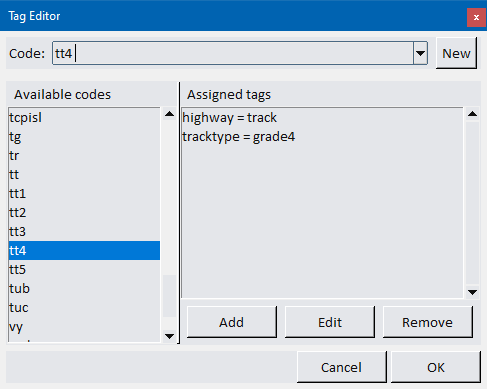
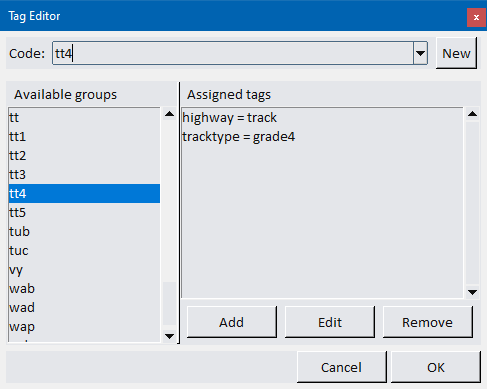
Implementing documentation

diff --git a/forms/main_form.py b/forms/main_form.py
@@ -1138,6 +1138,41 @@ class MainForm:
     def clear_input(self, event=None):
         self._reset_input()
 
+    def _show_generic_tags_warning(self):
+        from tkinter import messagebox
+
+        previous_topmost = None
+        try:
+            previous_topmost = bool(self.root.attributes("-topmost"))
+        except Exception:
+            previous_topmost = None
+
+        try:
+            self.root.deiconify()
+        except Exception:
+            pass
+
+        try:
+            self.root.attributes("-topmost", True)
+            self.root.lift()
+            self.root.update_idletasks()
+        except Exception:
+            pass
+
+        try:
+            messagebox.showwarning(
+                "Warning",
+                "Tags with generic values were added. "
+                "Please review the edited element manually before uploading.",
+                parent=self.root,
+            )
+        finally:
+            if previous_topmost is not None:
+                try:
+                    self.root.attributes("-topmost", previous_topmost)
+                except Exception:
+                    pass
+
     def send(self, code):
 
         self._sending_in_progress = True
@@ -1201,12 +1236,7 @@ class MainForm:
                     self._reset_input()
 
                     if generic_found:
-                        from tkinter import messagebox
-                        messagebox.showwarning(
-                            "Warning",
-                            "Tags with generic values were added. "
-                            "Please review the edited element manually before uploading."
-                        )
+                        self._show_generic_tags_warning()
 
                     self._sending_in_progress = False
                     self.allow_minimize = True

diff --git a/forms/tag_editor_form.py b/forms/tag_editor_form.py
@@ -282,7 +282,7 @@ class TagEditorForm(BaseForm):
         paned.pack(fill="both", expand=True, padx=6, pady=6)
 
         left_frame = tk.Frame(paned)
-        tk.Label(left_frame, text="Available codes").pack(anchor="w", padx=4)
+        tk.Label(left_frame, text="Available groups").pack(anchor="w", padx=4)
         list_container = tk.Frame(left_frame)
         list_container.pack(fill="both", expand=True)
         self.code_list = tk.Listbox(list_container)

diff --git a/forms/font_selector_form.py b/forms/font_selector_form.py
@@ -179,6 +179,7 @@ class FontSelectorForm(BaseForm):
         self.preview_label = tk.Label(
             self,
             text="The quick brown fox jumps over the lazy dog",
+            # text="Omnia Gallia divisa est in partes tres -- 0123456789",
             bg=self.panel_color,
             fg=self.panel_fg,
             relief="solid",

diff --git a/resources/doc/JOSM_Tagger.md b/resources/doc/JOSM_Tagger.md
@@ -81,15 +81,6 @@
 ### Important: Whatever the Operating system, JOSM must be open and at least one map element selected before using the "Apply" function.
 
 
-### Note
-> JOSM TAgger has two possible ways to send the tags to JOSM:
-> - ***User Interface Automation***: the program emulates user's clicks and keyboard commands in JOSM, e.g. by "pressing" *Ctrl-A* to recall the tag insertion form, *Tab* to switch among the form fields, *Enter* to confirm). 
->
->- ***Remote Control***: tags are sent to JOSM through *http* protocol. In order for this method to work, the *Remote Control* feature must be enabled in JOSM (`Edit >> Preferences >> Remote control >> Enable Remote Control` ): this will cause the Editor to listen for connections on standard TCP port 8111.
-
-Each method has its up and down sides: *GUI automation* doesn't need particular settings but is slower and requires that the user does not interact with the keyboard or mouse while the tags are being applied; on the other side, *Remote control* is faster but requires additional configuration and -in some cases- user permissions to work.
-
-
 ## Tag groups
 In JOSM Tagger, one or more OSM tags can be grouped under a short mnemonic code, which can be quickly recalled by typing its name.
 #### The *Code* text box
@@ -152,7 +143,7 @@ The list in the middle part of the window can be browsed to see which tags group
 | `pser` | `highway=service, access=private` | Add a private driveway |
 | `tuc` | `tunnel=culvert, layer=-1` | Mark a culvert |
 
-**Complete list**: All available codes are stored locally and can be browsed using the **Search** dialog (see below).
+**Complete list**: all available codes are stored locally and can be browsed using the **Search** dialog (see below).
 
 ---
 
@@ -189,6 +180,7 @@ Need to know which groups contain a particular tag? The ***Search*** function co
 	2. ***Edit***: Opens the *Tag Editor*, where it can be modified or deleted.
 
 
+---
 
 
 ## Creating and modifying Tag Groups
@@ -223,136 +215,96 @@ In the main window, select `Edit >> Tag groups`: this will bring the *Tag editor
    - Click the ***[ Add ]*** button to assign a new tag to the selected group
 
 
+
+#### Tags with "generic values"
+Sometimes it can be useful to add a tag with a generic value to an element on the map, to be modified later.
+
+In this case, a value such as `...`, or `###` (or any other string containing the same character repeated 3 times or more) can be assigned to that tag.
+
+> **Example**: Group *nn* will expand into the tags:
+> `addr:street=......`<br>
+> `addr:housenumber=......`
+
+Josm Tagger will detect the "generic" value when applying the tag group, and will display a warning message:
+
+<p align="center">
+  <img src="pub/generic_value_wrn.png" style="box-shadow: 0 0 10px rgba(0,0,0,0.5);">
+</p>
+
+> **IMPORTANT**: such generic tag values values MUST NOT be uploaded to the OpenStreetMap database! 
+>Please <u>use this function carefully</u> and always take some time to review your edits and the warnings thrown by JOSM at upload time.
+
+
 #### Creating a new group
 
 1. Click the ***[ New ]*** button
 
 2. Enter a name tor the new group (perhaps a short one, which can be easily remembered and typed).  
 
-> **NOTE**: The group name must be unique, otherwise you will get an error!
+> **NOTE**: The group name must be unique, otherwise an error message is displayed.
 
 <p align="center">
   <img src="pub/duplicated_tag_err.png" style="box-shadow: 0 0 10px rgba(0,0,0,0.5);">
 </p>
 
-------
--------
-------
+3. Add one or more tags to the new group, as shown above.
 
-
-1. Click the **Tag Groups dropdown** in the main window
-2. Select a group from the list (e.g., "Building basics", "Road properties")
-3. A description or list of tags is shown
-4. Click **"Apply Group"** to send all tags to JOSM
-
-### Creating a New Tag Group
-
-1. Click the **Settings button** (gear icon)
-2. Go to the **"Tag Groups"** tab
-3. Click **"New Group"**
-4. Enter a group name (e.g., "My Building Tags")
-5. Click **"Add Code to Group"** to select which codes to include
-6. Drag codes to reorder them if needed
-7. Click **Save** to confirm
-
-### Editing an Existing Tag Group
-
-1. Open **Settings → Tag Groups**
-2. Select the group from the list
-3. Click **"Edit Group"**
-4. Add or remove codes using the interface
-5. Click **Save** to confirm changes
 
 ### Deleting a Tag Group
 
-1. Open **Settings → Tag Groups**
-2. Select the group you want to delete
-3. Click **"Delete Group"**
-4. Confirm the deletion
+1. Right click the desired name in the *Available groups* list;
+2. Choose ***Delete*** from the context menu.
+
+
+### Renaming a Tag Group
+
+1. Right click the desired name in the *Available groups* list;
+2. Choose ***Rename*** from the context menu.
 
 ---
 
-
-
----
 
 ## Program Settings
 
-Access settings by clicking the **Settings button** (gear icon) in the main window.
+This menu allows some customization to the program's interface and behaviour.
+To open it, from the main window select `Edit >> Preferences`:
 
-### General Tab
+<p align="center">
+  <img src="pub/prefs.png" style="box-shadow: 0 0 10px rgba(0,0,0,0.5);">
+</p>
 
-#### Font Selection
-- **Font Family**: Choose your preferred font (Arial, Calibri, etc.)
-- **Font Size**: Adjust text size (useful for high-DPI displays)
-- **UI Scale**: Scale the entire interface (useful if text is too small)
+### Appearance
+Here some graphics elements of the program can be configured (background and foreground colour, DArk MOde, etc.)
 
-#### JOSM Window Detection
-- **JOSM Window Title**: The application searches for the JOSM window using this title
-- Default: `Java OpenStreetMap Editor`
-- If JOSM isn't detected, try checking the actual JOSM window title in your system
+### Behaviour
+This section contains options which control the program's reaction to particular events (when losing focus, when applying tags, when closed by clicking the 'x' button in the window corner)
 
-### Theme Tab (Appearance)
 
-#### Light Theme
-- **Background Color**: Choose the main window background color
-- **Panel Color**: Color for panels and buttons
-- **Text Color**: Foreground text color
+### JOSM interface
 
-#### Dark Theme
-- **Background Color**: Main window background in dark mode
-- **Panel Color**: Panel/button color
-- **Text Color**: Text color in dark mode
+JOSM Tagger has two possible ways to send the tags to JOSM:
+- ***User Interface Automation***: the program emulates user's clicks and keyboard commands in JOSM, e.g. by "pressing" *Ctrl-A* to recall the tag insertion form, *Tab* to switch among the form fields, *Enter* to confirm). 
 
-#### Enable Dark Theme
-- Toggle the dark theme on or off
-- Changes apply immediately
+- ***Remote Control***: tags are sent to JOSM through *http* protocol. In order for this method to work, the *Remote Control* feature must be enabled in JOSM (`Edit >> Preferences >> Remote control >> Enable Remote Control` ): this will cause the Editor to listen for connections on standard TCP port 8111.
 
-#### Background Picture
-- **Load Image**: Set a background image for the main window
-- **Remove Image**: Clear the background picture
-- Useful for custom branding or visibility in bright environments
+Each method has its up and down sides: *GUI automation* doesn't need particular settings but is slower and requires that the user does not interact with the keyboard or mouse while the tags are being applied; on the other side, *Remote control* is faster but requires additional configuration and -in some cases- user permissions to work.
 
-### Hotkey Tab
-
-#### Global Hotkey Activation
-- **Hotkey**: Set a keyboard shortcut to show/hide the JOSM Tagger window
-- **Default**: Usually Alt+T or similar (platform-dependent)
-- Useful when JOSM is fullscreen or you need quick access
-
-**Note on Linux**: Global hotkeys work best on X11 sessions. If using Wayland, hotkey support may be limited.
-
-### Tag Groups Tab
-(See [Working with Tag Groups](#working-with-tag-groups) above)
+> **NOTE**: On Linux systems,the only available option is Remote Control.
 
 ---
 
-## Keyboard Shortcuts
+## Application font
+The font style and size can be customized by selecting `View >> Font`. Set the desired options, the click [ Apply ] to confirm your choice.
 
-### Global Shortcuts (Work Anywhere)
+---
 
-| Shortcut | Function | Platform |
-| --- | --- | --- |
-| **Alt+T** | Show/Hide JOSM Tagger window | Windows, Linux |
-| **Ctrl+F** | Open Search dialog | Windows, Linux |
 
-### Main Window Shortcuts
+## Global Hotkey Activation
 
-| Shortcut | Function |
-| --- | --- |
-| **Ctrl+Enter** | Apply the current mnemonic code |
-| **Tab** | Switch between input fields |
-| **Escape** | Clear the mnemonic code field |
-| **Alt+S** | Open Settings |
-| **Alt+H** | Open Help / About |
+Josm Tagger is configured to automatically bring up its main window if the Ctrl-0 hotkey is detected.
 
-### Search Window Shortcuts
+> **NOTE**: on Linux, global hotkeys work best on X11 sessions. If using Wayland, hotkey support may be limited.
 
-| Shortcut | Function |
-| --- | --- |
-| **Enter** | Apply the selected code from search results |
-| **Escape** | Close the search window |
-| **Ctrl+C** | Copy the selected code to clipboard |
 
 ---
 
@@ -416,9 +368,7 @@ sudo apt install -y python3-tk libcanberra-gtk-module libcanberra-gtk3-module
   - `acp` for access=private
   - Avoid very short codes that clash with other codes
   
-### Window Management
-- **Minimize to tray**: Close the main window to minimize it to the system tray (hotkey brings it back)
-- **Stay on top**: The window always stays on top of other applications for quick access
+
 
 ### Backup Your Configuration
 - **config.json**: Contains all your settings, groups, and preferences
@@ -433,19 +383,20 @@ sudo apt install -y python3-tk libcanberra-gtk-module libcanberra-gtk3-module
 ## Frequently Asked Questions
 
 **Q: Can I edit the mnemonic codes?**  
-A: Currently, code definitions come from `codes.json`. Advanced users can edit this file directly (requires restart), but a GUI editor for codes is planned for a future version.
+A: Yes, you can! Just use the Tag Editor, available in the main menu.
 
 **Q: Can I use JOSM Tagger with remote JOSM servers?**  
 A: No, JOSM Tagger interacts with the local JOSM application only. Remote sessions are not supported.
 
 **Q: Can I use multiple tag groups at once?**  
-A: You must apply groups one at a time. However, you can create composite groups that combine multiple groups' tags.
+A: You must apply groups one at a time. However, you can create groups that combine tags from different groups.
 
-**Q: Is there a mobile/web version?**  
-A: Not currently. JOSM Tagger is a desktop application for Windows and Linux.
+**Q: Can I change the global Hotkey?**  
+A: Not at the moment. So far, Ctrl-0 is the only possible key combination to restore the Josm Tagger window after it has minimized to the Tray. 
+
 
 **Q: How do I uninstall JOSM Tagger?**  
-- **Windows**: Settings → Apps → Find "JOSM Tagger" → Uninstall
+- **Windows**: Locate the JOSM Tagger directory and delete it!
 - **Linux**: `sudo apt remove josm-tagger` or use your package manager
 
 ---